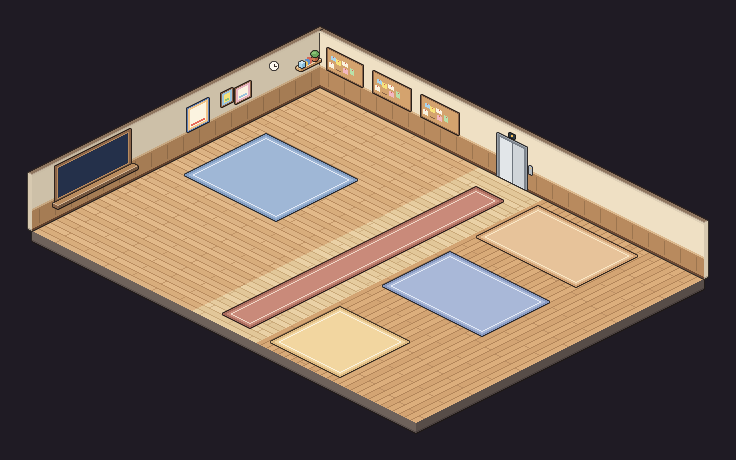
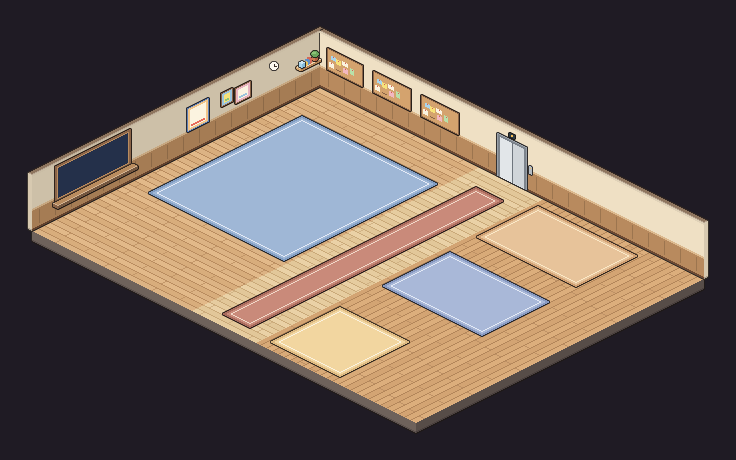
AO-110: 12 computadores na mesa da Luna, em grade de 3 colunas por 4 fileiras
Os 4 atuais ficam onde estavam; entram uma fileira em cima, uma embaixo e uma
coluna a leste. A Luna senta no computador 10 e o lugar antigo dela vira de
agente. Arte regerada por scripts/pixel-art/export_app.py; testes e docs.

Changed region(s): [[0.1875, 0.2435, 0.5938, 0.5783]]

diff --git a/test/casa2d.test.ts b/test/casa2d.test.ts
@@ -76,12 +76,48 @@ describe('layout 2D da Casa', () => {
     for (const s of CASA.static) expect(ATLAS.frames[s.f], s.f).toBeDefined()
   })
 
-  it('as quatro mesas de trabalho têm uma cadeira cada, a da Luna primeiro, todas viradas para a mesa', () => {
+  it('as doze mesas de trabalho (AO-110) têm uma cadeira cada, a da Luna primeiro, todas viradas para a mesa', () => {
     const { seats } = CASA.table
-    expect(seats).toHaveLength(4)
-    expect(new Set(seats.map((s) => s.at.join())).size).toBe(4)
+    expect(seats).toHaveLength(12)
+    expect(new Set(seats.map((s) => s.at.join())).size).toBe(12)
     // every sitter faces its desk, which is west of the chair
     for (const s of seats) expect(s.dir, s.seat.f).toBe('BL')
+  })
+
+  it('as doze cadeiras formam uma grade de 3 colunas por 4 fileiras, de espaçamento regular', () => {
+    const seats = CASA.table.seats.map((s) => s.at)
+    const cols = [...new Set(seats.map((a) => a[0]))].sort((a, b) => a - b)
+    const rows = [...new Set(seats.map((a) => a[1]))].sort((a, b) => a - b)
+    expect(cols).toHaveLength(3)
+    expect(rows).toHaveLength(4)
+    // every cell of the grid has exactly one chair
+    for (const x of cols) for (const z of rows) expect(seats.filter((a) => a[0] === x && a[1] === z)).toHaveLength(1)
+    // rows are evenly spaced; the east column is within 2 units of the spacing of the first two (tile alignment)
+    expect(new Set(rows.slice(1).map((z, i) => z - rows[i])).size).toBe(1)
+    expect(Math.abs(cols[2] - cols[1] - (cols[1] - cols[0]))).toBeLessThanOrEqual(2)
+    // the four original chairs stayed where they were (AO-110 does not move them)
+    for (const a of [[51, 99], [97, 99], [51, 135], [97, 135]]) expect(seats.some((c) => c[0] === a[0] && c[1] === a[1])).toBe(true)
+  })
+
+  it('a Luna senta na cadeira 10 (fileira de baixo, coluna da esquerda); o lugar antigo dela é de agente', () => {
+    const [luna, ...residents] = CASA.table.seats
+    expect(luna.at).toEqual([51, 171])
+    expect(residents.some((s) => s.at[0] === 51 && s.at[1] === 99)).toBe(true)
+    expect(residents.some((s) => s.at.join() === luna.at.join())).toBe(false)
+  })
+
+  it('as cadeiras e as mesas não se sobrepõem e as duas portas da parede leste continuam livres', () => {
+    const grid = grid2d(CASA)
+    const blocked = new Set(CASA.blocked.map(([x, z]) => `${x},${z}`))
+    for (const s of CASA.table.seats) {
+      const tile = [Math.floor(s.at[0] / 16), Math.floor(s.at[1] / 16)]
+      expect(blocked.has(tile.join()), `cadeira ${s.at}`).toBe(false)
+    }
+    // the office's doors in the east half wall (x = 10): their tiles and the ones on both sides walk
+    const wall = CASA.walls.find((w) => w.axis === 'x' && w.at === 10)!
+    for (const z of wall.doors) for (const x of [9, 10]) expect(grid.walkable(x, z), `${x},${z}`).toBe(true)
+    // no desk sits on a door tile or in the strip against the wall
+    for (const z of wall.doors) expect(blocked.has(`9,${z}`)).toBe(false)
   })
 
   it('dá para chegar do elevador a toda cadeira, à sua mesa, aos cantos de lazer e às portas', () => {
@@ -111,6 +147,8 @@ describe('layout 2D da Casa', () => {
 
   it('diz o nome do lugar sob o ponteiro', () => {
     expect(zoneAt(CASA, 3, 8)).toBe('Mesa da Luna')
+    expect(zoneAt(CASA, 3, 3)).toBe('Mesa da Luna')
+    expect(zoneAt(CASA, 3, 11)).toBe('Mesa da Luna')
     expect(zoneAt(CASA, 12, 9)).toBe('Entrada')
     expect(zoneAt(CASA, 18, 15)).toBe('Jogos')
     expect(zoneAt(CASA, 30, 30)).toBeNull()
@@ -137,18 +175,28 @@ describe('plano da Casa 2D', () => {
 
   it('os residentes sentam nas cadeiras livres na ordem da arte, nunca na da Luna', () => {
     const spots = plan.chairs.map((_, n) => homeSpot(grid, n, plan)!)
-    expect(spots).toHaveLength(3)
+    expect(spots).toHaveLength(11)
     expect(spots.every((s) => s.sit)).toBe(true)
     expect(spots.some((s) => s.point.x === plan.luna.x && s.point.z === plan.luna.z)).toBe(false)
-    expect(new Set(spots.map((s) => `${s.point.x},${s.point.z}`)).size).toBe(3)
-    // the residents fill the desks in order after Luna's
+    expect(new Set(spots.map((s) => `${s.point.x},${s.point.z}`)).size).toBe(11)
+    // the residents fill the desks in order after Luna's: the four original ones, the row above, the east column, the row below
     expect(spots.map((s) => s.tile)).toEqual([
+      [3, 6],
       [6, 6],
       [3, 8],
       [6, 8],
+      [3, 3],
+      [6, 3],
+      [9, 3],
+      [9, 6],
+      [9, 8],
+      [6, 10],
+      [9, 10],
     ])
     // the same seat number always gives the same chair
     expect(homeSpot(grid, 2, plan)).toEqual(spots[2])
+    // the 12th resident has no chair: stands (the house has 11 resident chairs plus Luna's)
+    expect(homeSpot(grid, 11, plan)!.sit).toBe(false)
   })
 
   it('quem passa das cadeiras fica de pé perto da mesa, longe das cadeiras e das portas', () => {

diff --git a/scripts/pixel-art/scene_casa2.py b/scripts/pixel-art/scene_casa2.py
@@ -22,19 +22,25 @@ ELEVATOR = (180, 204)
 HALF_WALLS = [(160, [(56, 88), (176, 208)]), (224, [(56, 88), (176, 208)])]
 # the boards on the back wall: x0, x1, action, name
 BOARDS = [(8, 42, 'agenda', 'Agenda'), (54, 90, 'goals', 'Objetivos'), (102, 138, 'personal-routines', 'Rotinas pessoais')]
-# the four work desks (x, y; each 14 x 30, the sitter east of it looking -x); Luna takes the first,
-# then the residents fill them in order
+# the twelve work desks, a grid of 3 columns x 4 rows (each 14 x 30, the sitter east of it looking -x),
+# numbered as in the approved board (AO-110, casa12): the four original ones first (1-4, left where they
+# were), then the row above (5-7), the east column (8-9) and the row below (10-12)
 DESK_D = 30
-DESKS = [(30, 84), (76, 84), (30, 120), (76, 120)]
+DESKS = [(30, 84), (76, 84), (30, 120), (76, 120),
+         (30, 48), (76, 48), (124, 48), (124, 84), (124, 120),
+         (30, 156), (76, 156), (124, 156)]
+# Luna sits at desk 10 (bottom row, west column); her old desk 1 is a resident's now
+LUNA_DESK = 9
 # the chair of each desk: x, y, the way the sitter looks
 TABLE_SEATS = [(x + 16, y + 10, '-x') for x, y in DESKS]
 # the rug under the desks: x0, y0, x1, y1
-DESK_RUG = (20, 74, 112, 156)
+DESK_RUG = (20, 38, 156, 192)
 # the bounding box of the desks (x, y, w, d): its middle is where the group looks at
-TABLE = (30, 84, 82, 66)
-# who sits where in the preview (variant, or None for an empty chair)
-TABLE_PEOPLE = [6, 1, 2, None]
-SEAT_ORDER = [0, 1, 2, 3]
+TABLE = (30, 48, 108, 138)
+# who sits where in the preview (variant, or None for an empty chair), by desk
+TABLE_PEOPLE = [1, 2, None, 3, 4, None, 7, 5, None, 6, 2, None]
+# the order the seats are exported in: Luna's first, then the residents' (desks 1-9, 11, 12)
+SEAT_ORDER = [LUNA_DESK] + [i for i in range(len(DESKS)) if i != LUNA_DESK]
 # the user's desk (x, y, width), against the front wall
 VOCE_DESK = (70, 266, 36)
 # footprints of the clickable furniture (export_app.py tags the items with these)
@@ -62,7 +68,7 @@ HANG = [
 ]
 # names shown when the pointer is over a part of the floor (tiles: x0, y0, x1, y1)
 ZONES = [
-    ('Mesa da Luna', (0, 4, 10, 10)),
+    ('Mesa da Luna', (0, 3, 10, 12)),
     ('Sua mesa', (0, 13, 10, 18)),
     ('Escritório', (0, 0, 10, 18)),
     ('Entrada', (10, 0, 14, 18)),
@@ -143,7 +149,9 @@ def office(sc):
 
 
 # the work desks' look, mixed from the floor's palette: (chair, screen) of each table desk and of the user's desk
-TABLE_LOOK = [('terra', 'blue'), ('green', 'lilac'), ('blue', 'rose'), ('mustard', 'mint')]
+TABLE_LOOK = [('terra', 'blue'), ('green', 'lilac'), ('blue', 'rose'), ('mustard', 'mint'),
+              ('green', 'blue'), ('terra', 'mint'), ('mustard', 'lilac'), ('blue', 'blue'),
+              ('terra', 'rose'), ('terra', 'blue'), ('blue', 'mint'), ('green', 'rose')]
 VOCE_LOOK = ('lilac', 'green')
 
 
@@ -154,7 +162,7 @@ def work_desk(L, x, y, screen):
 
 
 def luna_table(sc):
-    """the four work desks: each one item, chair and sitter drawn after it."""
+    """the twelve work desks: each one item, chair and sitter drawn after it."""
     L = sc.L
     for i, (x, y) in enumerate(DESKS):
         cx, cy, _face = TABLE_SEATS[i]
@@ -168,7 +176,7 @@ def luna_table(sc):
             F.chair(L, cx, cy, '-x', 'back', col)
         sc.add((x, y, x + 14, y + DESK_D), lambda x=x, y=y, i=i: work_desk(L, x, y, TABLE_LOOK[i][1]), True)
         sc.add((cx, cy, cx + 10, cy + 10), chair)
-    px, py = L.P(TABLE_SEATS[0][0] + 5, TABLE_SEATS[0][1] + 5, 7)
+    px, py = L.P(TABLE_SEATS[LUNA_DESK][0] + 5, TABLE_SEATS[LUNA_DESK][1] + 5, 7)
     sc.heads['luna'] = (int(px) + 3 * L.S, int(py) - 24 * L.S)
 
 
@@ -234,7 +242,7 @@ def build():
     sc.label('Caveira', 150, 24, 36)
     sc.label('Claude FM', 234, 133, 34)
     sc.label('Escritório', 124, 40)
-    sc.label('Mesa da Luna', 124, 130)
+    sc.label('Mesa da Luna', 118, 110)
     mx, my = L.P(68, 270, 34)
     sc.labels.append(('Novo agente', mx + 2, int(my) - 18))
     vx, vy = L.P(98, 262, 0)

diff --git a/docs/specs/motor-2d.md b/docs/specs/motor-2d.md
@@ -46,6 +46,15 @@ fundo de uma sala de squad, Emi, móveis clicáveis da Casa e do andar de estudo
 - `scene_casa2.py` dividida como o projeto: `shell()` vira `casa-base.png`; o resto vira sprites em `casa.json`.
 - O jogo pergunta os lugares do térreo ao `HomePlan` de `casaPlan`: cadeira do jogador, visitas, mesa da Luna e
   cadeiras dos residentes (`homeSpot`), cantos de lazer, elevador e espera.
+- **Mesa da Luna com 12 computadores (AO-110)**: grade de 3 colunas × 4 fileiras no Escritório (`DESKS` em
+  `scene_casa2.py`, numerada como o board aprovado `casa12`). Os quatro antigos (1 a 4) ficam onde estavam; entram
+  uma fileira em cima (5 a 7), a coluna leste (8 e 9) e uma fileira embaixo (10 a 12). A Luna senta no 10
+  (`LUNA_DESK`, fileira de baixo, coluna da esquerda); o `SEAT_ORDER` exporta a cadeira dela primeiro
+  (`table.seats[0]`, que o jogo lê como `plan.luna`) e os 11 residentes sentam nas outras, na ordem 1 a 9, 11, 12.
+  O 12º morador em diante fica de pé em volta da mesa (`homeSpot`). A coluna leste está 2 unidades de arte (4 px)
+  mais afastada que as outras, para a cadeira cair num tile sem mesa. As duas portas da parede leste, a divisória
+  "Sua mesa" e o tamanho da casa não mudam. O teto de 10 mesas de agentes individuais (`AGENT_DESK_COUNT`) é do
+  andar de projeto, não da Casa.
 - Clique (`world2d/hit.ts actAt`): pessoa da frente primeiro, depois o móvel pintado naquele pixel, depois os quadros
   da parede, depois a porta do elevador. Hover: o clicável fica mais claro e o `title` diz o que faz.
 - Tags pequenas (`tag-mini`) para Caveira, Rotinas de agentes, Novo agente, quadros, Claude FM, Livros, Filmes, Jogos,

diff --git a/scripts/pixel-art/README.md b/scripts/pixel-art/README.md
@@ -36,3 +36,4 @@ As prévias vão para `out/pixel-art/` (ignorado pelo git). Depois de `export_ap
 - Os sprites são exportados já na posição final, então o app só copia pixels: nada de meio pixel arredondado diferente da arte aprovada.
 - `scene_projeto.py`, `scene_casa2.py` e `scene_estudos.py` são a fonte da verdade dos andares. Mudou a geometria lá, rode `export_app.py` de novo; a prévia e o app usam as mesmas funções.
 - As salas de squad têm cinco mesas: as quatro da arte aprovada e, para o 5º membro, uma na parede do fundo, atrás do coordenador. Todas bloqueiam o tile delas; as fileiras do meio são o corredor da porta até o coordenador.
+- A mesa da Luna da Casa tem 12 computadores (AO-110): `DESKS` em `scene_casa2.py` é a grade de 3 colunas × 4 fileiras, na numeração do board `casa12` (1 a 4 são os antigos, 5 a 7 a fileira de cima, 8 e 9 a coluna leste, 10 a 12 a fileira de baixo). `LUNA_DESK` (o 10) é onde a Luna senta e `SEAT_ORDER` põe a cadeira dela primeiro em `casa.json` (`table.seats[0]`); os outros 11 são dos moradores. Para mover uma mesa, mexa só em `DESKS`/`TABLE_LOOK`/`TABLE_PEOPLE`/`DESK_RUG`/`TABLE` e rode `export_app.py`; a cadeira de cada mesa fica num tile sem mesa (o teste confere).
